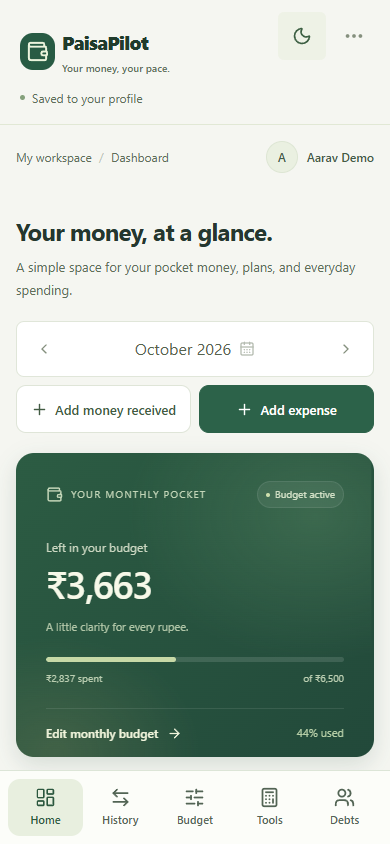
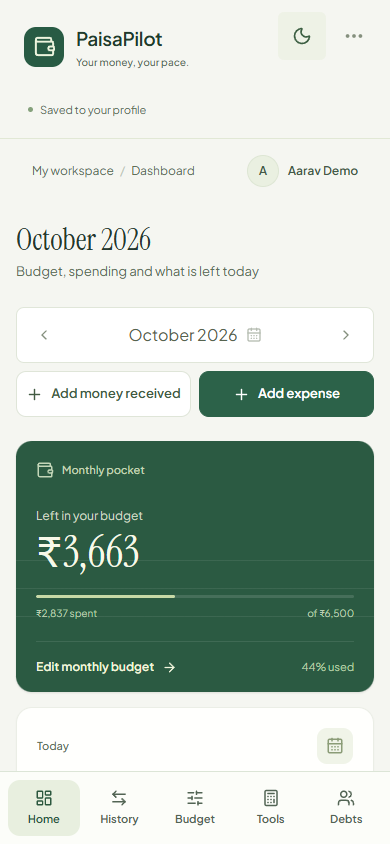
feat: calmer dashboard with self-hosted type, month title and passbook balance card

diff --git a/src/components/Overview.tsx b/src/components/Overview.tsx
@@ -14,7 +14,7 @@ interface Props {
   onNotesChange: (notes: BudgetNote[]) => void; onPayPriority: (item: PrioritySpend) => void;
 }
 export function Overview({ stats, transactions, currencySymbol, budget, month, today, onOpenAddModal, onNavigateToTab, onPrioritiesChange, onNotesChange, onPayPriority }: Props) {
-  const money = (value: number) => currencySymbol + value.toLocaleString('en-IN', { maximumFractionDigits: 2 });
+  const money = (value: number) => currencySymbol + Math.round(value).toLocaleString('en-IN');
   const current = month === today.slice(0, 7);
   const monthTx = transactions.filter(tx => tx.date.startsWith(month));
   const expenses = monthTx.filter(tx => tx.type === 'expense');
@@ -35,14 +35,14 @@ export function Overview({ stats, transactions, currencySymbol, budget, month, t
   return <div className="dashboard">
     <div className="dashboard-top">
       <section className="balance-card"><span className="balance-art" aria-hidden="true"/>
-        <div className="balance-top"><span><Wallet size={17}/> YOUR MONTHLY POCKET</span><span className="live-pill"><span/>{stats.monthlyTarget > 0 ? 'Budget active' : 'Ready to begin'}</span></div>
+        <div className="balance-top"><span><Wallet size={18}/> Monthly pocket</span></div>
         <p className="balance-label">Left in your budget</p><div className="balance-value"><CountUp value={stats.remainingBudget} format={money}/></div>
-        <p className="balance-copy">{stats.monthlyTarget === 0 ? 'Give your month a starting point.' : stats.remainingBudget < 0 ? 'You are over budget. Review your plan before spending more.' : 'A little clarity for every rupee.'}</p>
+        {(stats.monthlyTarget === 0 || stats.remainingBudget < 0) && <p className="balance-copy">{stats.monthlyTarget === 0 ? 'Set a starting amount for this month' : 'Over budget. Review the plan before spending more'}</p>}
         <div className="balance-progress" role="progressbar" aria-label="Monthly budget spent" aria-valuemin={0} aria-valuemax={100} aria-valuenow={Math.min(100, Math.round(used))}><span style={{ width: Math.min(100, used) + '%' }}/></div>
         <div className="balance-progress-label"><span>{money(stats.totalExpenses)} spent</span><span>of {money(stats.monthlyTarget)}</span></div>
         <div className="balance-bottom"><button onClick={() => onNavigateToTab('budget')}>{stats.monthlyTarget ? 'Edit monthly budget' : 'Set your monthly budget'}<ArrowRight size={15}/></button><span>{stats.monthlyTarget > 0 ? Math.round(used) + '% used' : 'Start here'}</span></div>
       </section>
-      <section className="panel daily-card"><div className="section-heading"><span className="eyebrow">{current ? 'YOUR DAILY CHECK-IN' : 'MONTHLY SNAPSHOT'}</span><span className="soft-icon"><CalendarDays size={18}/></span></div><p className="daily-label">{current ? 'Spent today' : 'Spent this month'}</p><div className="daily-value"><CountUp value={current ? stats.spentToday : stats.totalExpenses} format={money}/></div><span className={'status-pill ' + (stats.todayStatus === 'over' ? 'warning' : '')}>{!current ? 'Selected month' : stats.monthlyTarget === 0 ? 'Set your monthly budget to begin' : stats.todayStatus === 'over' ? 'Above the starting allowance today' : 'Within the starting allowance today'}</span><div className="daily-divider"/><div className="daily-bottom"><div><span>{current ? 'Available per day from now' : 'Average spend per day'}</span><strong>{money(current ? stats.dailySafeLimit : stats.dailyBurnRate)}</strong></div><button className="round-add" onClick={() => onOpenAddModal('expense')} aria-label="Add a daily expense"><Plus size={21}/></button></div><p className="form-hint">{current ? 'Remaining budget minus priorities / days left, including today.' : 'Open the current month for your daily allowance.'}</p></section>
+      <section className="panel daily-card"><div className="section-heading"><span className="eyebrow">{current ? 'Today' : 'Month'}</span><span className="soft-icon"><CalendarDays size={18}/></span></div><p className="daily-label">{current ? 'Spent today' : 'Spent this month'}</p><div className="daily-value"><CountUp value={current ? stats.spentToday : stats.totalExpenses} format={money}/></div><span className={'status-pill ' + (stats.todayStatus === 'over' ? 'warning' : '')}>{!current ? 'Selected month' : stats.monthlyTarget === 0 ? 'Set your monthly budget to begin' : stats.todayStatus === 'over' ? 'Above the starting allowance today' : 'Within the starting allowance today'}</span><div className="daily-divider"/><div className="daily-bottom"><div><span>{current ? 'Available per day from now' : 'Average spend per day'}</span><strong>{money(current ? stats.dailySafeLimit : stats.dailyBurnRate)}</strong></div><button className="round-add" onClick={() => onOpenAddModal('expense')} aria-label="Add a daily expense"><Plus size={21}/></button></div><p className="form-hint">{current ? 'Remaining budget minus priorities, over the days left' : 'Open the current month for the daily allowance'}</p></section>
     </div>
     <div className="summary-strip">
       <div><span className="summary-icon"><TrendingUp size={19}/></span><span><small>Total spent</small><strong><CountUp value={stats.totalExpenses} format={money}/></strong></span></div>
@@ -51,17 +51,17 @@ export function Overview({ stats, transactions, currencySymbol, budget, month, t
       <div><span className="summary-icon"><CalendarDays size={19}/></span><span><small>{current ? 'Days left this month' : 'Days in this month'}</small><strong>{current ? stats.daysRemainingInMonth : totalDays}<em> days</em></strong></span></div>
     </div>
     {reserved > Math.max(0, stats.remainingBudget) && <p className="inline-warning" role="status">Your priorities exceed the remaining budget by {money(reserved - Math.max(0, stats.remainingBudget))}. Adjust your list or increase the budget.</p>}
-    {subBudgets.length > 0 && <section className="panel sub-budgets-panel"><div className="section-heading"><div><h2>Sub-budgets</h2><p>Categories with a limit, tracked inside your monthly pocket.</p></div><button className="text-button" onClick={() => onNavigateToTab('budget')}>Manage<ArrowRight size={14}/></button></div>
+    {subBudgets.length > 0 && <section className="panel sub-budgets-panel"><div className="section-heading"><div><h2>Sub-budgets</h2><p>Categories with a limit</p></div><button className="text-button" onClick={() => onNavigateToTab('budget')}>Manage<ArrowRight size={14}/></button></div>
       <div className="sub-budgets">{subBudgets.map(({ category, limit, spent, left }) => <div className={'category-item sub-budget ' + (left < 0 ? 'over' : '')} key={category}><div><span>{category}</span><strong>{money(spent)} / {money(limit)}</strong></div><div className="category-track" role="progressbar" aria-label={category + ' limit used'} aria-valuemin={0} aria-valuemax={100} aria-valuenow={Math.min(100, Math.round(spent / limit * 100))}><span style={{ width: Math.min(100, spent / limit * 100) + '%' }}/></div><small>{left < 0 ? 'Over by ' + money(-left) : money(left) + ' left'}{current && left > 0 ? ' - ' + money(Math.floor(left * 100 / stats.daysRemainingInMonth) / 100) + ' per day from now' : ''}</small></div>)}</div>
     </section>}
     <div className="dashboard-middle">
-      <section className="panel chart-panel"><div className="section-heading"><div><h2>Daily spending</h2><p>Your month, one day at a time.</p></div><span className="chart-legend"><i/>Expenses</span></div>
+      <section className="panel chart-panel"><div className="section-heading"><div><h2>Daily spending</h2></div><span className="chart-legend"><i/>Expenses</span></div>
         <div className="chart-axis"><span>{money(maxDay === 1 ? 0 : maxDay)}</span><span>{money(maxDay === 1 ? 0 : maxDay / 2)}</span><span>{money(0)}</span></div>
         <div className="spend-chart" role="group" aria-label={'Daily spending for ' + month + '. Select a day to see its expenses.'}>{avg > 0 && <div className="chart-avg" style={{ bottom: Math.min(100, avg / maxDay * 100) + '%' }}><span>avg {money(Math.round(avg))}</span></div>}{byDay.map((amount, index) => <button type="button" className={'chart-column' + (current && index + 1 === Number(today.slice(8)) ? ' today' : '') + (selectedDay === index + 1 ? ' selected' : '')} key={index} aria-pressed={selectedDay === index + 1} aria-label={'Day ' + (index + 1) + ': ' + money(amount)} onClick={() => setSelectedDay(selectedDay === index + 1 ? null : index + 1)}><div className="chart-bar-area"><div className={'chart-bar' + (amount ? (avg > 0 && amount > avg * 1.5 ? ' high' : '') : ' zero')} style={{ height: amount ? Math.max(2, amount / maxDay * 100) + '%' : '3px' }}/></div><span>{index === 0 || (index + 1) % 5 === 0 || index === totalDays - 1 ? index + 1 : ''}</span></button>)}</div>
         {selectedDay !== null && <div className="chart-detail" aria-live="polite"><div className="chart-detail-head"><strong>{new Date(month + '-' + String(selectedDay).padStart(2, '0') + 'T12:00:00').toLocaleDateString('en-IN', { weekday: 'short', day: 'numeric', month: 'short' })}</strong><span>{dayTx.length ? dayTx.length + (dayTx.length === 1 ? ' expense' : ' expenses') + ' - ' + money(byDay[selectedDay - 1]) : 'No spending'}</span></div>{dayTx.slice(0, 5).map(tx => <div className="chart-detail-row" key={tx.id}><span>{tx.note || tx.category}<small>{tx.category}</small></span><strong>{money(tx.amount)}</strong></div>)}{dayTx.length > 5 && <button className="text-button" onClick={() => onNavigateToTab('transactions')}>and {dayTx.length - 5} more<ArrowRight size={14}/></button>}</div>}
         <div className="chart-footer"><span>{expenses.length ? expenses.length + ' expenses recorded' + (peakDay ? ' - highest day ' + peakDay + ' at ' + money(byDay[peakDay - 1]) : '') : 'Log an expense to bring your chart to life.'}</span><span>{current ? 'Today - ' + Number(today.slice(8)) : month}</span></div>
       </section>
-      <section className="panel categories-panel"><div className="section-heading"><div><h2>Where it went</h2><p>Spending by category.</p></div><button className="text-button" onClick={() => onNavigateToTab('budget')}>Manage<ArrowRight size={14}/></button></div>
+      <section className="panel categories-panel"><div className="section-heading"><div><h2>Where it went</h2></div><button className="text-button" onClick={() => onNavigateToTab('budget')}>Manage<ArrowRight size={14}/></button></div>
         {breakdown.length === 0 ? <div className="empty-small"><Doodle kind="coins"/><h3>No spending yet.</h3><p>Your own categories will appear as you log expenses.</p></div> : <>
           <div className="spend-mix" role="img" aria-label={'Share of expenses: ' + breakdown.map(b => b.category + ' ' + Math.round(b.spent / stats.totalExpenses * 100) + '%').join(', ')}>{breakdown.slice(0, 6).map(({ category, spent }, i) => <span key={category} style={{ width: spent / stats.totalExpenses * 100 + '%', background: palette[i % 5] }}/>)}</div>
           <div className="mix-list">{breakdown.slice(0, 6).map(({ category, spent }, i) => <div className="mix-row" key={category}><i style={{ background: palette[i % 5] }}/><span>{category}{budget.categories[category] > 0 && <small className={spent > budget.categories[category] ? 'over' : ''}>{spent > budget.categories[category] ? 'Over the ' + money(budget.categories[category]) + ' limit' : money(budget.categories[category] - spent) + ' left of ' + money(budget.categories[category])}</small>}</span><em>{Math.round(spent / stats.totalExpenses * 100)}%</em><strong>{money(spent)}</strong></div>)}</div>
@@ -70,6 +70,6 @@ export function Overview({ stats, transactions, currencySymbol, budget, month, t
       </section>
     </div>
     <div className="dashboard-bottom"><PrioritySpending items={budget.priorities || []} month={month} currencySymbol={currencySymbol} categories={categories} onChange={onPrioritiesChange} onPay={onPayPriority} canPay={current}/><Notes notes={budget.notes || []} month={month} onChange={onNotesChange}/></div>
-    <section className="panel recent-panel"><div className="section-heading"><div><h2>Recent activity</h2><p>Little purchases. A bigger picture.</p></div><button className="text-button" onClick={() => onNavigateToTab('transactions')}>View all<ArrowRight size={15}/></button></div>{recent.length === 0 ? <div className="recent-empty"><span>No records this month. Start with today's spending.</span><button className="secondary-button" onClick={() => onOpenAddModal('expense')}><Plus size={16}/>Log an expense</button></div> : recent.map(tx => <div className="transaction-row" key={tx.id}><span className={'transaction-icon ' + tx.type}>{tx.type === 'expense' ? <ArrowUpRight size={18}/> : <ArrowDownLeft size={18}/>}</span><div className="transaction-description"><strong>{tx.note || tx.category}</strong><small>{tx.category}</small></div><time>{new Date(tx.date + 'T12:00:00').toLocaleDateString('en-IN', { day: 'numeric', month: 'short' })}</time><strong className={'transaction-amount ' + tx.type}>{tx.type === 'expense' ? '-' : '+'}{money(tx.amount)}</strong></div>)}</section>
+    <section className="panel recent-panel"><div className="section-heading"><div><h2>Recent activity</h2></div><button className="text-button" onClick={() => onNavigateToTab('transactions')}>View all<ArrowRight size={15}/></button></div>{recent.length === 0 ? <div className="recent-empty"><span>No records this month. Start with today's spending.</span><button className="secondary-button" onClick={() => onOpenAddModal('expense')}><Plus size={16}/>Log an expense</button></div> : recent.map(tx => <div className="transaction-row" key={tx.id}><span className={'transaction-icon ' + tx.type}>{tx.type === 'expense' ? <ArrowUpRight size={18}/> : <ArrowDownLeft size={18}/>}</span><div className="transaction-description"><strong>{tx.note || tx.category}</strong><small>{tx.category}</small></div><time>{new Date(tx.date + 'T12:00:00').toLocaleDateString('en-IN', { day: 'numeric', month: 'short' })}</time><strong className={'transaction-amount ' + tx.type}>{tx.type === 'expense' ? '-' : '+'}{money(tx.amount)}</strong></div>)}</section>
   </div>;
 }

diff --git a/src/index.css b/src/index.css
@@ -1,5 +1,8 @@
 @import "tailwindcss";
 
+@font-face { font-family: 'Plus Jakarta Sans'; font-style: normal; font-weight: 200 800; font-display: swap; src: url('/fonts/PlusJakartaSans.woff2') format('woff2'); }
+@font-face { font-family: 'Instrument Serif'; font-style: normal; font-weight: 400; font-display: swap; src: url('/fonts/InstrumentSerif.woff2') format('woff2'); }
+
 :root { font-family: 'Plus Jakarta Sans', system-ui, sans-serif; color: #25372f; background: #f7f8f4; font-synthesis: none; }
 .access-page { display: grid; grid-template-columns: 1fr 1fr; min-height: 100vh; }
 .access-story { background: #eaf0e1; padding: 48px max(32px, 6vw); display: flex; flex-direction: column; justify-content: space-between; gap: 64px; }
@@ -622,6 +625,96 @@ input[type="number"]::-webkit-inner-spin-button, input[type="number"]::-webkit-o
 [data-theme="dark"] .note-card.pinned::before { background: var(--dark-accent); }
 [data-theme="dark"] .note-card p { color: #e3eee4; }
 [data-theme="dark"] .note-pinned { color: var(--dark-accent); }
+
+/* Unslop pass: 4px grid, sentence-case labels, flat balance card, one accent, calmer motion. */
+.sidebar { padding: 24px 16px 20px; }
+.brand { font-weight: 600; letter-spacing: -.3px; padding: 0 8px; gap: 12px; }
+.brand-icon { width: 40px; height: 40px; border-radius: 12px; }
+.brand small { margin-top: 2px; }
+.nav-caption { font-size: 11px; font-weight: 500; letter-spacing: 0; text-transform: none; margin: 32px 0 8px; padding: 0 12px; }
+.sidebar nav { gap: 4px; }
+.nav-item { padding: 8px 12px; min-height: 36px; gap: 10px; font-size: 13px; }
+.nav-item svg { width: 18px; height: 18px; }
+.sidebar-bottom .nav-item { padding-block: 8px; font-size: 13px; }
+.count { font-size: 11px; padding: 2px 6px; }
+.local-label { margin: 16px 12px 0; padding-top: 16px; font-size: 11px; }
+.workspace-header { height: 64px; padding: 0 32px; }
+.workspace-main { padding: 24px 32px 32px; }
+.page-heading { margin-bottom: 24px; gap: 24px; }
+.page-heading h1 { font-size: 28px; font-weight: 600; letter-spacing: -.4px; margin: 0 0 4px; }
+.page-heading p { font-size: 13px; }
+.page-actions, .button-group { gap: 8px; }
+.eyebrow { font-size: 11px; font-weight: 500; letter-spacing: 0; text-transform: none; }
+.primary-button, .secondary-button, .danger-button { padding: 10px 16px; min-height: 40px; gap: 8px; }
+.panel, .summary-strip { padding: 24px; border-radius: 16px; }
+.panel h2 { font-size: 15px; font-weight: 600; gap: 8px; }
+.panel h2 svg { width: 18px; height: 18px; }
+.section-heading { margin-bottom: 20px; gap: 12px; }
+.section-heading p { margin-top: 4px; }
+.soft-icon { width: 36px; height: 36px; border-radius: 10px; }
+.balance-card { background: #2b5a42; border-radius: 16px; padding: 24px 28px 0; box-shadow: 0 1px 2px #0000001a; }
+.balance-art { display: none; }
+.balance-top > span:first-child { font-size: 11px; font-weight: 500; letter-spacing: 0; text-transform: none; gap: 8px; }
+.balance-label { margin: 28px 0 4px; }
+.balance-value { font-weight: 600; letter-spacing: -1px; line-height: 1.2; font-variant-numeric: tabular-nums; }
+.balance-copy { margin: 8px 0 0; }
+.balance-card { display: flex; flex-direction: column; }
+.balance-progress { margin-top: auto; height: 4px; }
+.balance-value { margin-bottom: 24px; }
+.balance-progress-label { margin-top: 8px; }
+.balance-bottom { margin-top: 20px; padding: 16px 0; }
+.balance-bottom button { gap: 8px; }
+@media (hover: hover) { .balance-card:hover { box-shadow: 0 1px 2px #0000001a; } }
+.daily-card .section-heading { margin-bottom: 16px; }
+.daily-value { margin: 4px 0 12px; font-weight: 600; letter-spacing: -1px; font-variant-numeric: tabular-nums; }
+.daily-divider { margin: 20px 0 16px; }
+.daily-bottom strong { font-variant-numeric: tabular-nums; }
+.round-add { width: 36px; height: 36px; border-radius: 10px; }
+.summary-strip { padding: 20px 8px; }
+.summary-strip > div { gap: 12px; padding: 0 16px; }
+.summary-strip svg { width: 18px; height: 18px; }
+.summary-strip small { margin-bottom: 4px; }
+.summary-strip strong { font-variant-numeric: tabular-nums; }
+.chart-axis { top: 76px; left: 24px; }
+.spend-chart { margin: 24px 0 0 48px; gap: 4px; }
+.chart-column { gap: 8px; }
+.chart-bar.high { background: #6f9a7c; }
+.chart-footer { margin-top: 20px; padding-top: 12px; }
+.chart-detail { margin-top: 16px; padding: 12px 16px; border-radius: 12px; animation: none; }
+.sub-budgets { gap: 16px 24px; }
+.mix-row { padding: 12px 0; animation: none; }
+.transaction-row { padding: 12px 0; gap: 12px; animation: none; }
+.transaction-icon { width: 32px; height: 32px; border-radius: 8px; }
+.priority-row { padding: 12px 0; gap: 12px; animation: none; }
+.note-card { padding: 12px 0 12px 12px; }
+.widget-footer { margin-top: 16px; padding-top: 16px; }
+.empty-small { padding: 20px 8px; }
+.empty-small h3 { margin: 12px 0 4px; }
+.doodle path, .doodle ellipse { animation: none; stroke-dasharray: none; }
+.empty-small p { animation: none; }
+.dashboard > *, .budget-layout > *, .udhaar-layout > * { animation: none; }
+.tab-view { animation: rise-in .3s var(--ease-out); }
+:is(.transaction-row, .priority-row, .note-card, .category-item) { animation: none; }
+:is(.balance-progress, .category-track) > span { animation: none; }
+.chart-bar { animation: none; }
+.spend-mix > span { animation: none; }
+.workspace-footer { padding: 0 32px 24px; font-size: 11px; }
+[data-theme="dark"] .balance-card { background: #27503b; box-shadow: none; }
+@media (max-width: 640px) { .workspace-main { padding: 20px 16px 32px; } .panel { padding: 20px; } .balance-card { padding: 20px 20px 0; } }
+
+/* Refinements: serif partner for the title and key figures, passbook rules on the balance card, off-white dark button. */
+:root { --serif: 'Instrument Serif', Georgia, 'Times New Roman', serif; }
+.page-heading h1, .access-story h1, .access-card h2 { font-family: var(--serif); font-weight: 400; letter-spacing: 0; }
+.page-heading h1 { font-size: 34px; line-height: 1.1; }
+.balance-value, .daily-value { font-family: var(--serif); font-weight: 400; letter-spacing: 0; font-variant-numeric: tabular-nums; }
+.balance-value { font-size: clamp(44px, 4.4vw, 60px); line-height: 1.05; margin-bottom: 20px; }
+.daily-value { font-size: 44px; line-height: 1.05; margin: 2px 0 12px; }
+.balance-card { background: #2b5a42 repeating-linear-gradient(to bottom, transparent 0 27px, #ffffff14 27px 28px) 0 92px / 100% 84px no-repeat; }
+.balance-progress { height: 3px; }
+[data-theme="dark"] .balance-card { background: #27503b repeating-linear-gradient(to bottom, transparent 0 27px, #ffffff12 27px 28px) 0 92px / 100% 84px no-repeat; }
+[data-theme="dark"] .primary-button { background: #e9eee4; border-color: #e9eee4; color: #10200f; }
+[data-theme="dark"] .primary-button:hover:not(:disabled) { background: #d9e1d3; border-color: #d9e1d3; box-shadow: none; }
+@media (max-width: 640px) { .page-heading h1 { font-size: 30px; } .balance-value { font-size: 44px; } .daily-value { font-size: 38px; } }
 
 /* Themed select, date picker and confirm dialog (replace native popups). */
 .popover { position: fixed; z-index: 60; }

diff --git a/src/App.tsx b/src/App.tsx
@@ -375,7 +375,7 @@ export function App({ initialData, onChange, saveStatus, saveError, onRetry, onL
       <div className="workspace">
       <header className="workspace-header"><div className="breadcrumb">My workspace <span>/</span> {activeTab === 'overview' ? 'Dashboard' : activeTab === 'transactions' ? 'Spending history' : activeTab === 'budget' ? 'Monthly budget' : activeTab === 'calculator' ? 'Calculators' : 'Lend & borrow'}</div><button className="profile-button" onClick={() => setIsSettingsOpen(true)} aria-label="Open profile settings"><span>{settings.userName.slice(0, 1).toUpperCase()}</span>{settings.userName}</button></header>
       <main id="main" className="workspace-main">
-      <div className="page-heading"><div><span className="eyebrow">A LITTLE MORE INTENTIONAL, EVERY DAY</span><h1>{activeTab === 'overview' ? 'Your money, at a glance.' : activeTab === 'budget' ? 'Give your month a plan.' : activeTab === 'transactions' ? 'Every rupee has a story.' : activeTab === 'calculator' ? 'Work out the numbers.' : 'Keep your balances clear.'}</h1><p>{activeTab === 'overview' ? 'A simple space for your pocket money, plans, and everyday spending.' : 'Make it yours. Keep it simple.'}</p></div><div className="page-actions"><div className="month-picker"><button className="icon-button" aria-label="Previous month" onClick={() => { const d = new Date(selectedMonth + '-01T12:00:00'); d.setMonth(d.getMonth() - 1); setSelectedMonth(localDate(d).slice(0, 7)); }}><ChevronLeft size={16}/></button><DatePicker mode="month" label="Selected month" min="1900-01" max="2100-12" value={selectedMonth} onChange={setSelectedMonth}/><button className="icon-button" aria-label="Next month" onClick={() => { const d = new Date(selectedMonth + '-01T12:00:00'); d.setMonth(d.getMonth() + 1); setSelectedMonth(localDate(d).slice(0, 7)); }}><ChevronRight size={16}/></button></div><button className="secondary-button" onClick={() => handleOpenAddTx('income')}><Plus size={17}/>Add money received</button><button className="primary-button" onClick={() => handleOpenAddTx('expense')}><Plus size={17}/>Add expense</button></div></div>
+      <div className="page-heading"><div><h1>{activeTab === 'overview' ? new Date(selectedMonth + '-01T12:00:00').toLocaleDateString('en-IN', { month: 'long', year: 'numeric' }) : activeTab === 'budget' ? 'Monthly budget' : activeTab === 'transactions' ? 'Spending history' : activeTab === 'calculator' ? 'Calculators' : 'Lend & borrow'}</h1>{activeTab === 'overview' && <p>{selectedMonth === calendarDate.slice(0, 7) ? 'Budget, spending and what is left today' : 'A past or future month'}</p>}</div><div className="page-actions"><div className="month-picker"><button className="icon-button" aria-label="Previous month" onClick={() => { const d = new Date(selectedMonth + '-01T12:00:00'); d.setMonth(d.getMonth() - 1); setSelectedMonth(localDate(d).slice(0, 7)); }}><ChevronLeft size={16}/></button><DatePicker mode="month" label="Selected month" min="1900-01" max="2100-12" value={selectedMonth} onChange={setSelectedMonth}/><button className="icon-button" aria-label="Next month" onClick={() => { const d = new Date(selectedMonth + '-01T12:00:00'); d.setMonth(d.getMonth() + 1); setSelectedMonth(localDate(d).slice(0, 7)); }}><ChevronRight size={16}/></button></div><button className="secondary-button" onClick={() => handleOpenAddTx('income')}><Plus size={17}/>Add money received</button><button className="primary-button" onClick={() => handleOpenAddTx('expense')}><Plus size={17}/>Add expense</button></div></div>
       {saveError && <div className="inline-warning" role="alert"><span>{saveError} Export a backup from Settings before closing.</span><button className="secondary-button" onClick={onRetry}>Retry saving</button></div>}
         {/* Alerts Center Drawer / Banner */}
         {isAlertsDrawerOpen && (
@@ -464,7 +464,7 @@ export function App({ initialData, onChange, saveStatus, saveError, onRetry, onL
         </div>
       </main>
 
-      <footer className="workspace-footer"><span><span className="footer-dot"/> A little progress, every day.</span><span>Saved to your private profile · Internet required</span></footer>
+      <footer className="workspace-footer"><span/><span>Saved to your private profile · Internet required</span></footer>
       </div>
 
       {/* Modals */}

diff --git a/src/components/Budget/Notes.tsx b/src/components/Budget/Notes.tsx
@@ -5,7 +5,7 @@ interface Props { notes: BudgetNote[]; month: string; onChange: (notes: BudgetNo
 export function Notes({ notes, month, onChange }: Props) {
   const [text, setText] = useState('');
   const monthNotes = notes.filter(n => n.month === month).sort((a, b) => Number(b.pinned) - Number(a.pinned));
-  return <section className="panel notes-panel"><div className="section-heading"><div><h2><StickyNote size={18}/>Notes to self</h2><p>A little space to think ahead.</p></div>{monthNotes.length > 0 && <span className="small-count">{monthNotes.length} {monthNotes.length === 1 ? 'note' : 'notes'}</span>}</div>
+  return <section className="panel notes-panel"><div className="section-heading"><div><h2><StickyNote size={18}/>Notes</h2></div>{monthNotes.length > 0 && <span className="small-count">{monthNotes.length} {monthNotes.length === 1 ? 'note' : 'notes'}</span>}</div>
     <form className="note-composer" onSubmit={e => { e.preventDefault(); if (!text.trim()) return; onChange([...notes, { id: crypto.randomUUID(), month, text: text.trim(), pinned: false }]); setText(''); }}><label className="sr-only" htmlFor="budget-note">New budget note</label><textarea id="budget-note" rows={1} maxLength={1000} value={text} onChange={e => setText(e.target.value)} onKeyDown={e => { if (e.key === 'Enter' && !e.shiftKey) { e.preventDefault(); e.currentTarget.form?.requestSubmit(); } }} placeholder="Write a reminder and press Enter"/><button type="submit" className="icon-button note-add" aria-label="Add note" disabled={!text.trim()}><Plus size={18}/></button></form>
     <div className="notes-list">{monthNotes.length === 0 && <p className="empty-note">Your reminders will live here.</p>}{monthNotes.map(note => <article key={note.id} className={'note-card ' + (note.pinned ? 'pinned' : '')}><p>{note.pinned && <span className="note-pinned">Pinned</span>}{note.text}</p><div><button className="icon-button" aria-label={(note.pinned ? 'Unpin' : 'Pin') + ' note: ' + note.text} aria-pressed={note.pinned} onClick={() => onChange(notes.map(n => n.id === note.id ? { ...n, pinned: !n.pinned } : n))}><Pin size={14}/></button><button className="icon-button" aria-label={'Delete note: ' + note.text} onClick={() => onChange(notes.filter(n => n.id !== note.id))}><Trash2 size={14}/></button></div></article>)}</div>
   </section>;

diff --git a/src/components/Budget/PrioritySpending.tsx b/src/components/Budget/PrioritySpending.tsx
@@ -14,7 +14,7 @@ export function PrioritySpending({ items, month, currencySymbol, categories, onC
   const monthItems = items.filter(item => item.month === month).sort((a, b) => Number(!!a.paidTransactionId) - Number(!!b.paidTransactionId) || ['Must have', 'Important', 'Can wait'].indexOf(a.priority) - ['Must have', 'Important', 'Can wait'].indexOf(b.priority));
   const reserved = monthItems.filter(item => !item.paidTransactionId).reduce((sum, item) => sum + item.amount, 0);
   return <section className="panel priority-panel">
-    <div className="section-heading"><div><h2><Flag size={18}/>Priority spending</h2><p>Make room for what matters.</p></div><button className="icon-button" aria-label={adding ? 'Close priority form' : 'Add priority purchase'} onClick={() => setAdding(!adding)}>{adding ? <X size={18}/> : <Plus size={18}/>}</button></div>
+    <div className="section-heading"><div><h2><Flag size={18}/>Priority spending</h2></div><button className="icon-button" aria-label={adding ? 'Close priority form' : 'Add priority purchase'} onClick={() => setAdding(!adding)}>{adding ? <X size={18}/> : <Plus size={18}/>}</button></div>
     {adding && <form className="widget-form" onSubmit={e => {
       e.preventDefault(); const form = new FormData(e.currentTarget);
       const title = String(form.get('title')).trim(), amount = Number(form.get('amount')), category = String(form.get('category')).trim();

diff --git a/src/components/Navbar.tsx b/src/components/Navbar.tsx
@@ -19,7 +19,7 @@ export function Navbar(props: NavbarProps) {
   ];
   return <aside className="sidebar">
     <a className="brand" href="#main"><span className="brand-icon"><Wallet size={23}/></span><span>PaisaPilot<small>Your money, your pace.</small></span></a>
-    <div className="nav-caption">YOUR WORKSPACE</div>
+    <div className="nav-caption">Workspace</div>
     <div className="mobile-toolbar"><button className="icon-button" onClick={props.onToggleTheme} aria-label={props.theme === 'dark' ? 'Switch to light mode' : 'Switch to dark mode'}>{props.theme === 'dark' ? <Sun size={20}/> : <Moon size={20}/>}</button><button className="icon-button mobile-menu-toggle" aria-label="Workspace options" aria-controls="workspace-options" aria-expanded={menuOpen} onClick={() => setMenuOpen(!menuOpen)}><MoreHorizontal size={22}/></button></div>
     <nav aria-label="Main navigation">{tabs.map(({ id, label, short, icon: Icon }) =>
       <button key={id} aria-label={label} onClick={() => { props.setActiveTab(id); setMenuOpen(false); window.scrollTo({ top: 0 }); }} className={props.activeTab === id ? 'nav-item active' : 'nav-item'} aria-current={props.activeTab === id ? 'page' : undefined}><Icon size={21}/><span className="desktop-nav-label">{label}</span><span className="mobile-nav-label" aria-hidden="true">{short}</span></button>)}</nav>

diff --git a/src/components/Budget/BudgetPlanner.tsx b/src/components/Budget/BudgetPlanner.tsx
@@ -33,7 +33,7 @@ export function BudgetPlanner({ receivedIncome, budget, transactions, onSaveBudg
       if (!Number.isFinite(value) || value < 0 || total > Math.round((value + receivedIncome) * 100) / 100) { setError('Category allocations must fit within your monthly budget.'); return; }
       onSaveBudget({ ...budget, monthlyTarget: value, categories }); setError(''); setSaved(true);
     }}>
-      <div className="section-heading"><div><span className="eyebrow">MONTHLY PLAN</span><h2>Set your budget</h2></div></div>
+      <div className="section-heading"><div><span className="eyebrow">Monthly plan</span><h2>Set your budget</h2></div></div>
       <label className="field">Monthly pocket money ({currencySymbol})<input required type="number" min="0" max="1000000000" step="0.01" inputMode="decimal" value={target} onChange={e => { setTarget(e.target.value); setSaved(false); }} placeholder="e.g. 5000" className="amount-input"/></label>
       <p className="form-hint">Enter your starting pocket money only. Additional money received is counted separately.</p>
       <div className="allocation-summary"><span>Money received <strong>{currencySymbol}{receivedIncome.toLocaleString('en-IN')}</strong></span><span>Total monthly budget <strong>{currencySymbol}{funding.toLocaleString('en-IN')}</strong></span></div>

diff --git a/src/components/Budget/Autopays.tsx b/src/components/Budget/Autopays.tsx
@@ -12,7 +12,7 @@ export function Autopays({ items, currencySymbol, today, onChange }: Props) {
   const sorted = [...items].sort((a, b) => Number(!a.active) - Number(!b.active) || a.day - b.day);
   const monthly = items.filter(a => a.active).reduce((sum, a) => sum + a.amount, 0);
   return <section className="panel autopay-panel">
-    <div className="section-heading"><div><h2><Repeat size={18}/>Autopays</h2><p>Monthly subscriptions and SIPs, recorded for you on their day.</p></div><button className="icon-button" aria-label={adding ? 'Close autopay form' : 'Add autopay'} onClick={() => setAdding(!adding)}>{adding ? <X size={18}/> : <Plus size={18}/>}</button></div>
+    <div className="section-heading"><div><h2><Repeat size={18}/>Autopays</h2><p>Recorded every month on their day</p></div><button className="icon-button" aria-label={adding ? 'Close autopay form' : 'Add autopay'} onClick={() => setAdding(!adding)}>{adding ? <X size={18}/> : <Plus size={18}/>}</button></div>
     {adding && <form className="widget-form" onSubmit={e => {
       e.preventDefault(); const form = new FormData(e.currentTarget);
       const title = String(form.get('title')).trim(), amount = Number(form.get('amount')), day = Number(form.get('day')), note = String(form.get('note') || '').trim();
